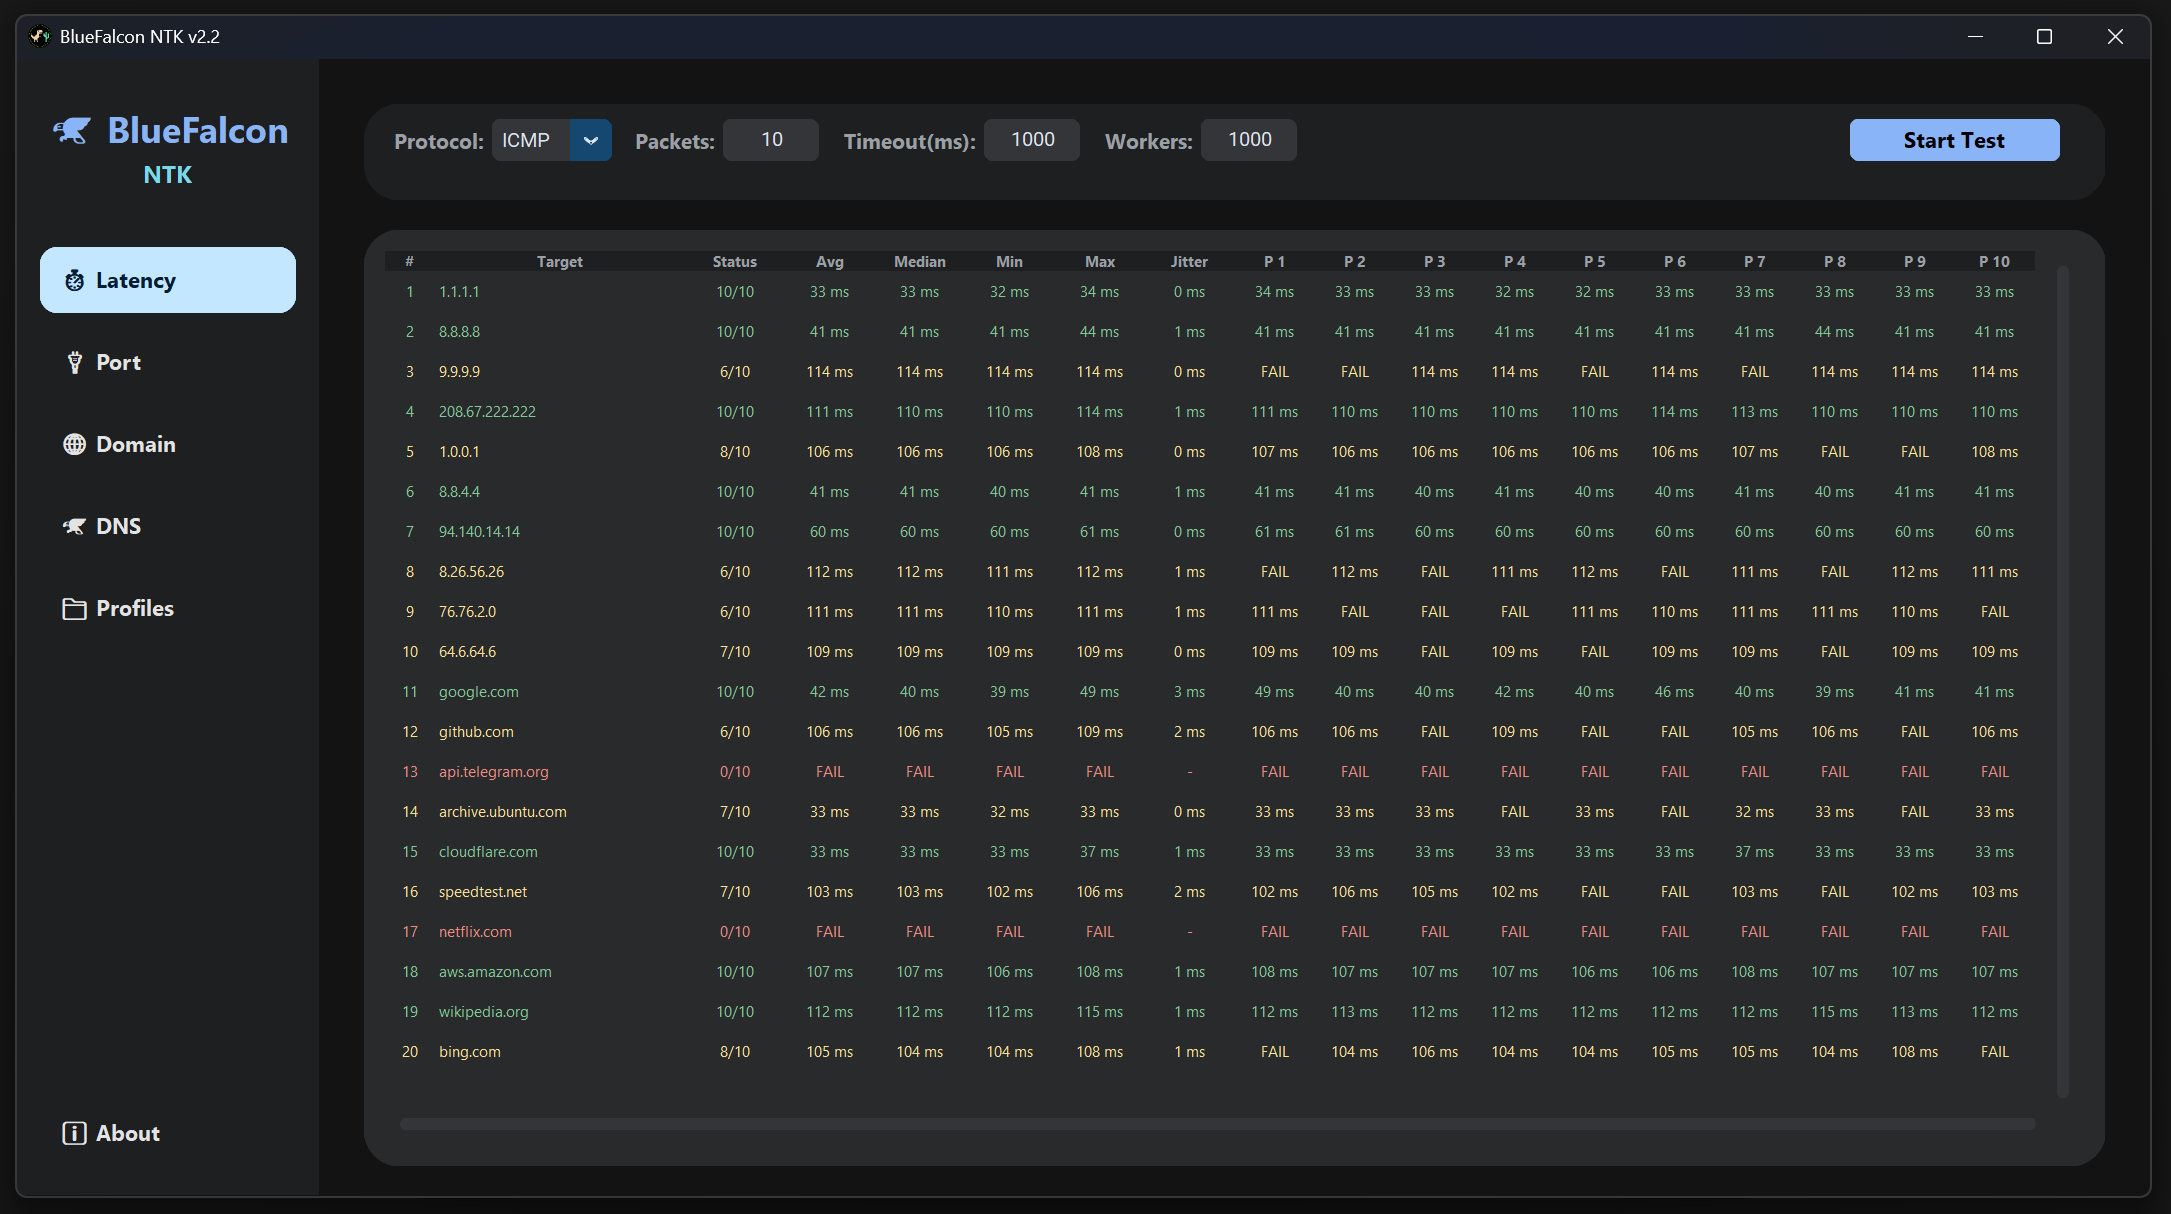
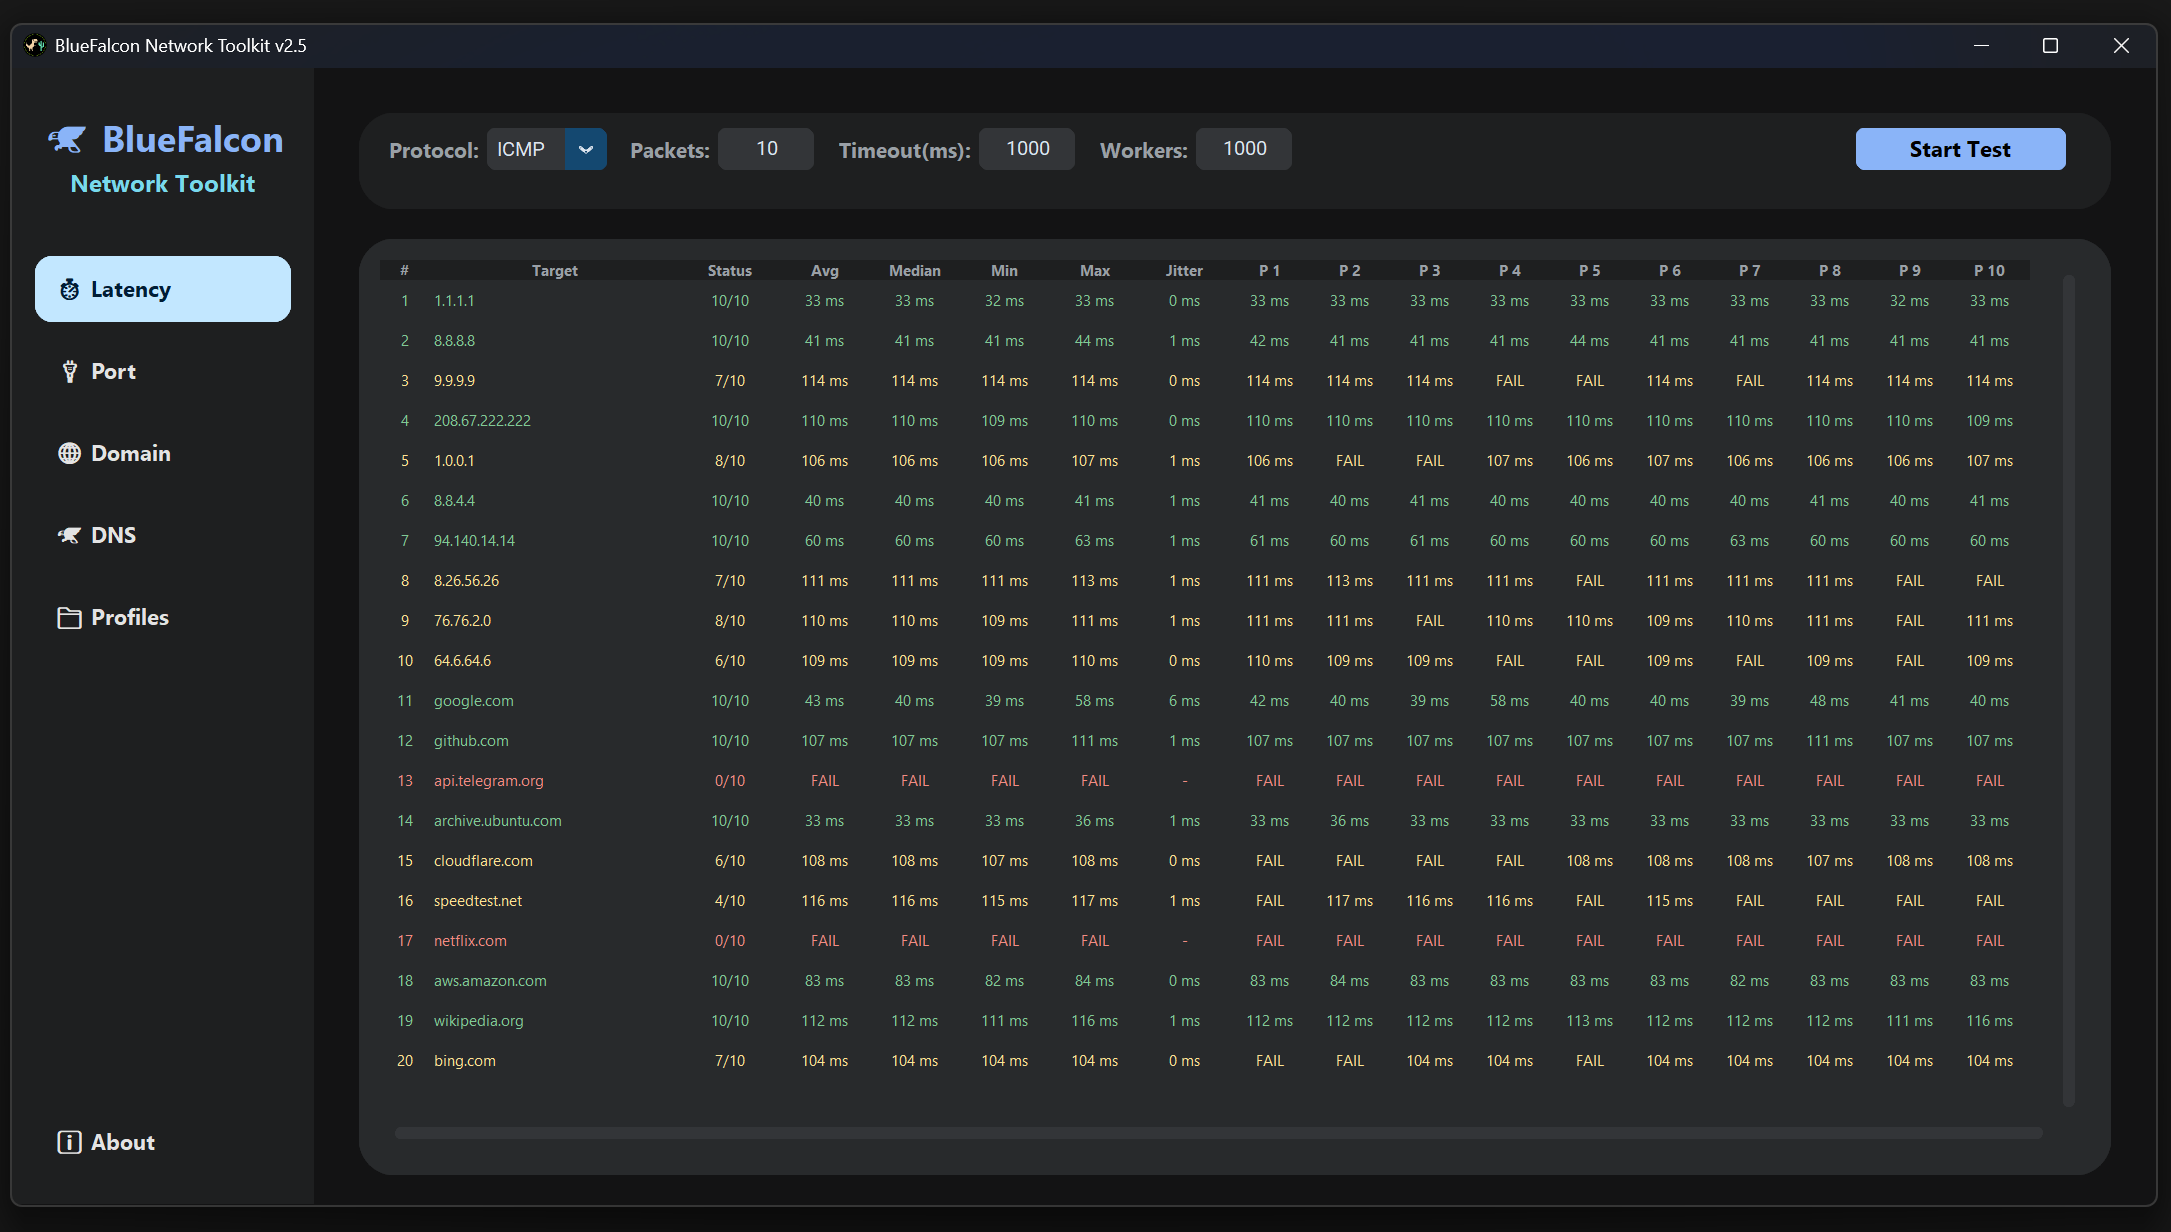
v2.6
## [v2.6] - 2026-08-23
### Added
- Added a collapsible gallery in README.md to neatly display multiple toolkit screenshots.

diff --git a/ui_shared.py b/ui_shared.py
@@ -4,7 +4,7 @@ import tkinter as tk
 from tkinter import ttk
 import customtkinter as ctk
 
-APP_VERSION = "2.5"
+APP_VERSION = "2.6"
 TOOL_NAME = f"BlueFalcon Network Toolkit v{APP_VERSION}"
 
 # ==========================================

diff --git a/README.md b/README.md
@@ -5,7 +5,7 @@
 **The ultimate network diagnostics toolkit for Windows, featuring DPI-aware scanning and concurrent DNS benchmarking.**
 
 ![Platform](https://img.shields.io/badge/Platform-Windows-0078D6?style=for-the-badge&logo=windows&logoColor=white)
-[![Version](https://img.shields.io/badge/Version-v2.5-007AFF?style=for-the-badge)](#)
+[![Version](https://img.shields.io/badge/Version-v2.6-007AFF?style=for-the-badge)](#)
 [![Language](https://img.shields.io/badge/Written%20in-Python-3776AB?style=for-the-badge&logo=python&logoColor=white)](https://www.python.org/)
 [![License](https://img.shields.io/badge/License-MIT-yellow.svg?style=for-the-badge)](LICENSE)
 
@@ -18,8 +18,26 @@ A native Windows toolkit designed for advanced network diagnostics. It includes 
 
 <br>
 
-## 📸 Screenshot
-![Screenshot](Screenshot.png)
+## 📸 Screenshots
+
+![Main Interface](Screenshot.png)
+
+<details>
+<summary><b>Click to expand more screenshots</b></summary>
+<br>
+
+![Screenshot 2](screenshot_2.png)
+<br>
+
+![Screenshot 3](screenshot_3.png)
+<br>
+
+![Screenshot 4](screenshot_4.png)
+<br>
+
+![Screenshot 5](screenshot_5.png)
+
+</details>
 
 <br>
 

diff --git a/CHANGELOG.md b/CHANGELOG.md
@@ -2,6 +2,10 @@
 
 All notable changes to the BlueFalcon Network Toolkit project will be documented in this file.
 
+## [v2.6] - 2026-08-23
+### Added
+- Added a collapsible gallery in README.md to neatly display multiple toolkit screenshots.
+
 ## [v2.5] - 2026-08-23
 ### Changed
 - Removed the top header from the Profile Manager tab to maximize the text box height.
